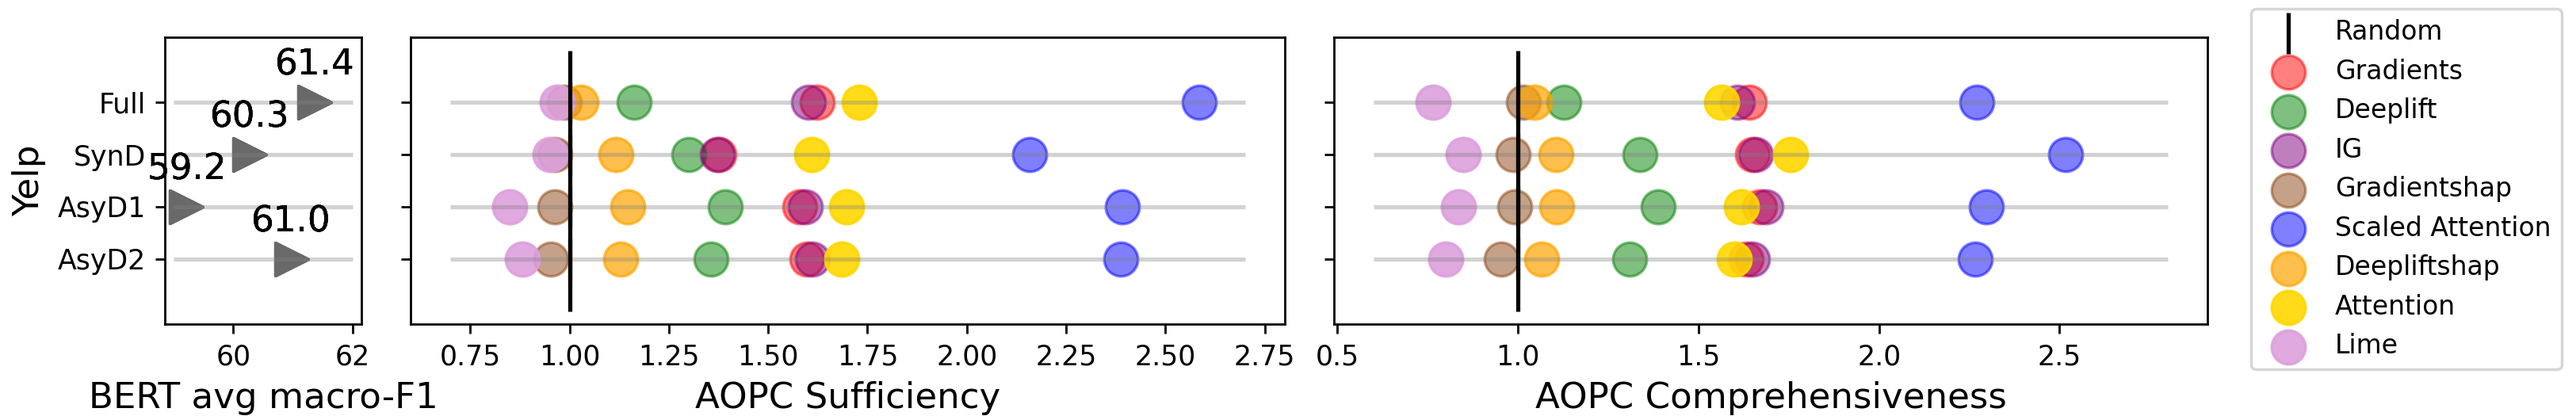
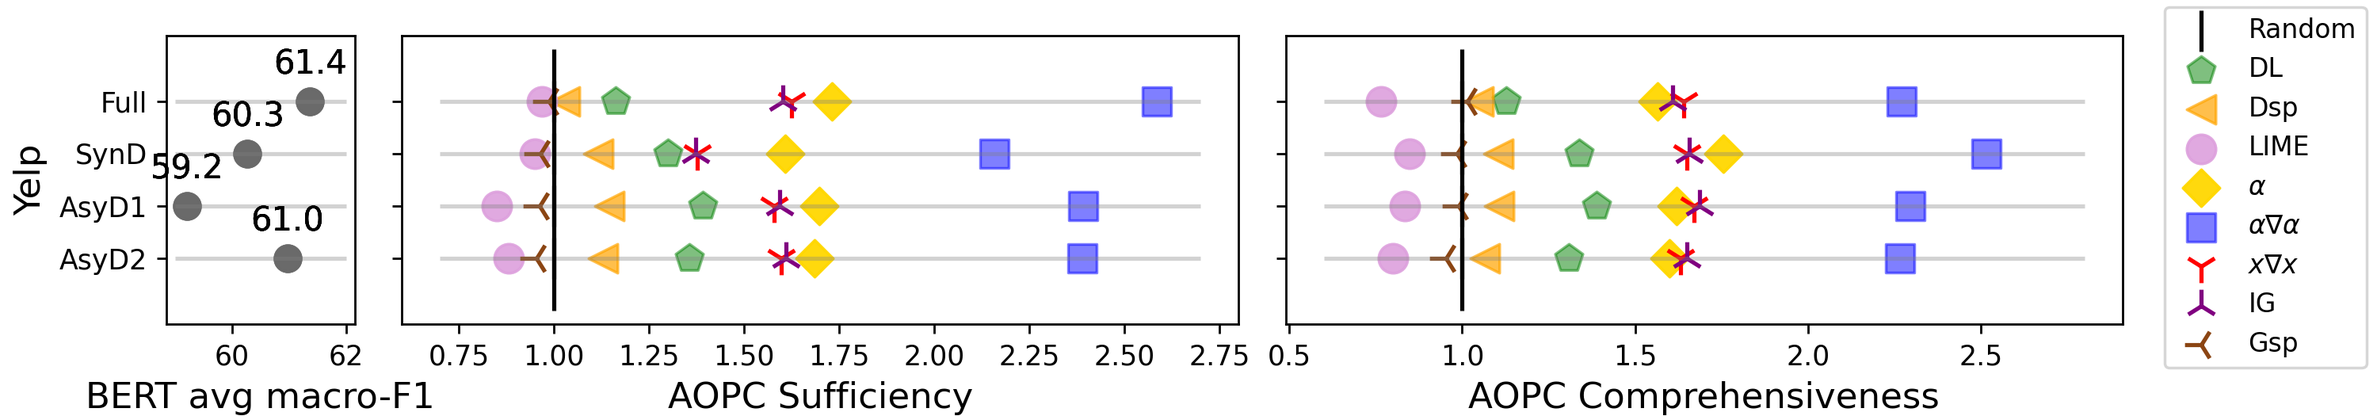
m

diff --git a/saved_everything/lollipop_ration.py b/saved_everything/lollipop_ration.py
@@ -23,7 +23,7 @@ df['ig'] = df['ig']/df['random']
 df['random'] = df['random']/df['random']
 df['mean-f1'] = df['mean-f1']*100
 
-data = 'Factcheck'
+
 
 # for fname in os.listdir('../posthoc_results/factcheck/'):
 #     print(fname)
@@ -39,7 +39,7 @@ data = 'Factcheck'
 
 
 
-
+data = 'Yelp'
 
 
 df = df[df['Task'].str.contains(str(data))]
@@ -108,7 +108,7 @@ else:
     comp_max = 0.35
 
 
-fig, ax = plt.subplots(1, 3, gridspec_kw={'width_ratios': [0.9, 4, 4]}, sharey='all', figsize=(13,2.1))
+fig, ax = plt.subplots(1, 3, gridspec_kw={'width_ratios': [0.9, 4, 4]}, sharey='all', figsize=(12,2.1))
 
 
 # Set number of ticks for x-axis
@@ -117,7 +117,7 @@ ax[0].set_yticks(range(len(my_range)))
 ax[0].set_yticklabels(my_range)
 
 ax[0].hlines(y=my_range, xmin=bert_min, xmax=bert_max, color='grey', alpha=0.35)
-ax[0].scatter(df['mean-f1'], df['Domain'], color='dimgray', alpha=1, label='F1', marker="o", s=130) # marker='|'
+ax[0].scatter(df['mean-f1'], df['Domain'], color='dimgray', alpha=0.66, label='F1', marker="o", s=89) # marker='|'
 for x,y in zip(df['mean-f1'],df['Domain']):
     label = format(x, '.1f')
     ax[0].annotate(label, # this is the text
@@ -125,7 +125,7 @@ for x,y in zip(df['mean-f1'],df['Domain']):
                  textcoords="offset points", # how to position the text
                  xytext=(0,10), # distance from text to points (x,y)
                  ha='center',
-                 fontsize= 13,
+                 fontsize= 12,
                  ) 
 ax[0].set_xlabel('BERT avg macro-F1',fontsize=xlabel_size)
 if data == 'Amazdigimu':
@@ -143,15 +143,14 @@ YMAX = 4
 ax[1].hlines(y=my_range, xmin=suff_min, xmax=suff_max, color='grey', alpha=0.35)
 ax[1].vlines(x = 1, ymin=YMIN, ymax=YMAX, color='black', alpha=1)
 ax[1].scatter(suff['random'], my_range, color='black', alpha=1, label='Random', marker='|', s=230)
-ax[1].scatter(suff['scaled attention'], my_range, color='blue', alpha=ALPHA , label='Scaled Attention', s=SIZE)
-ax[1].scatter(suff['gradients'], my_range, color='red', alpha=ALPHA , label='Gradients', s=SIZE)
-ax[1].scatter(suff['deeplift'], my_range, color='green', alpha=ALPHA , label='Deeplift', s=SIZE)
-ax[1].scatter(suff['ig'], my_range, color='purple', alpha=ALPHA , label='IG', s=SIZE)
-ax[1].scatter(suff['gradientshap'], my_range, color='saddlebrown', alpha=ALPHA , label='Gradientshap', s=SIZE)
-
-ax[1].scatter(suff['deepliftshap'], my_range, color='orange', alpha=ALPHA+0.2, label='Deepliftshap', s=SIZE)
-ax[1].scatter(suff['attention'], my_range, color='gold', alpha=ALPHA+0.4, label='Attention', s=SIZE)
-ax[1].scatter(suff['lime'], my_range, color='plum', alpha=ALPHA+0.4, label='Lime', s=SIZE)
+ax[1].scatter(suff['deeplift'], my_range, color='green', alpha=ALPHA , label='DL', s=SIZE, marker='p')
+ax[1].scatter(suff['deepliftshap'], my_range, color='orange', alpha=ALPHA+0.2, label='Dsp', s=SIZE, marker='<')
+ax[1].scatter(suff['lime'], my_range, color='plum', alpha=ALPHA+0.4, label='LIME', s=SIZE)
+ax[1].scatter(suff['attention'], my_range, color='gold', alpha= ALPHA+0.45, label=r'$\alpha$', s=SIZE-21, marker="D")
+ax[1].scatter(suff['scaled attention'], my_range, color='blue', alpha=ALPHA , label=r'$\alpha\nabla\alpha$', s=SIZE, marker="s")
+ax[1].scatter(suff['gradients'], my_range, color='red', alpha=1, label=r'$x\nabla x $', s=SIZE+33, marker="1")
+ax[1].scatter(suff['ig'], my_range, color='purple', alpha=1, label='IG', s=SIZE+33, marker="2")
+ax[1].scatter(suff['gradientshap'], my_range, color='saddlebrown', alpha=1, label='Gsp', s=SIZE+33, marker="3")
 
 ax[1].set_xlabel('AOPC Sufficiency',fontsize=xlabel_size)
 ax[1].invert_yaxis()
@@ -161,29 +160,28 @@ plt.plot()
 ########################################   COM  #################################
 ax[2].hlines(y=my_range, xmin=comp_min, xmax=comp_max, color='grey', alpha=0.35)
 ax[2].vlines(x = 1, ymin=YMIN, ymax=YMAX, color='black', alpha=1)
+
+
 ax[2].scatter(comp['random'], my_range, color='black', alpha=1, label='Random', marker='|', s=230)
-ax[2].scatter(comp['scaled attention'], my_range, color='blue', alpha=ALPHA , label=r'$\alpha\nabla\alpha$', s=SIZE, marker="s")
-ax[2].scatter(comp['attention'], my_range, color='gold', alpha= ALPHA+0.4, label=r'$\alpha$', s=SIZE-21, marker="D")
-
-ax[2].scatter(comp['gradients'], my_range, color='red', alpha=ALPHA+0.3, label=r'$x\nabla x $', s=SIZE+22, marker="1")
-ax[2].scatter(comp['ig'], my_range, color='purple', alpha=ALPHA+0.3, label='IG', s=SIZE+22, marker="2")
-ax[2].scatter(comp['gradientshap'], my_range, color='saddlebrown', alpha=ALPHA+0.35, label='Gsp', s=SIZE, marker="3")
-
-ax[2].scatter(comp['deeplift'], my_range, color='green', alpha=ALPHA , label='DL', s=SIZE)
-ax[2].scatter(comp['deepliftshap'], my_range, color='orange', alpha=ALPHA+0.2, label='Dsp', s=SIZE+22)
-
-
+ax[2].scatter(comp['deeplift'], my_range, color='green', alpha=ALPHA , label='DL', s=SIZE, marker='p')
+ax[2].scatter(comp['deepliftshap'], my_range, color='orange', alpha=ALPHA+0.2, label='Dsp', s=SIZE, marker='<')
 ax[2].scatter(comp['lime'], my_range, color='plum', alpha=ALPHA+0.4, label='LIME', s=SIZE)
+ax[2].scatter(comp['attention'], my_range, color='gold', alpha= ALPHA+0.45, label=r'$\alpha$', s=SIZE-21, marker="D")
+ax[2].scatter(comp['scaled attention'], my_range, color='blue', alpha=ALPHA , label=r'$\alpha\nabla\alpha$', s=SIZE, marker="s")
+ax[2].scatter(comp['gradients'], my_range, color='red', alpha=1, label=r'$x\nabla x $', s=SIZE+33, marker="1")
+ax[2].scatter(comp['ig'], my_range, color='purple', alpha=1, label='IG', s=SIZE+33, marker="2")
+ax[2].scatter(comp['gradientshap'], my_range, color='saddlebrown', alpha=1, label='Gsp', s=SIZE+33, marker="3")
+
 ax[2].set_xlabel('AOPC Comprehensiveness',fontsize=xlabel_size)
 ax[2].invert_yaxis()
 plt.plot()
 
 
 plt.subplots_adjust(
-    left=0.064,
+    left=0.07,
     bottom=0.221, 
-    right=0.857, 
-    top=0.91, 
+    right=0.893, 
+    top=0.914, 
     wspace=0.076, 
     hspace=0.2,
     )
@@ -191,10 +189,11 @@ plt.subplots_adjust(
 
 
 plt.legend(bbox_to_anchor=(1.05, 1.1), loc='upper left', borderaxespad=0, fontsize=legend_font_size-1.5)
+#plt.legend(bbox_to_anchor=(-0.3, -0.3), loc='upper center', borderaxespad=0, fontsize=11,fancybox=True,ncol=9)
 #fig.update_layout(yaxis5=dict(type='category',categoryorder='category ascending'))
 fig1 = plt.gcf()
 
 plt.show()
 plt.draw()
-fig1.savefig('./plot/contig'+str(data)+'.png', dpi=250)
+fig1.savefig('./plot/'+str(data)+'.png', dpi=660)
 #plt.savefig('./plot/'+str(data), format='png') # bbox_inches = 'tight', dpi=350,

diff --git a/saved_everything/all_tasks_all_fresh.py b/saved_everything/all_tasks_all_fresh.py
@@ -15,7 +15,7 @@ import numpy as np
 import pandas as pd
 
 
-task_list = ['agnews', 'xfact', 'factcheck', 'yelp', 'AmazPantry', 'AmazPantry'] # 'AmazDigiMu', 'AmazPantry', 
+task_list = ['agnews', 'xfact', 'factcheck', 'AmazPantry', 'AmazPantry', 'yelp'] # 'AmazDigiMu', 'AmazPantry', 
 
 # for i, task in enumerate(task_list):
 #         if i == 0:
@@ -30,13 +30,14 @@ task_list = ['agnews', 'xfact', 'factcheck', 'yelp', 'AmazPantry', 'AmazPantry']
 # df.to_csv('all_tasks_all_fresh_results.csv')
 
 plt.style.use('ggplot')
-fig, axs = plt.subplots(3, 2, figsize=(6, 7), sharey=False, sharex=False)
+fig, axs = plt.subplots(3, 2, figsize=(4.3, 7), sharey=False, sharex=False)
 
 marker_style = dict(color='tab:blue', linestyle=':', marker='d',
                     #markersize=15, markerfacecoloralt='tab:red',
                     )
 xlabel_size = 12
 xtick_size = 22
+ytick_size = 22
 makersize = 66
 for i, name in enumerate(task_list):
     path = './' + str(name) + '/fresh_predictive_results.csv'
@@ -56,42 +57,44 @@ for i, name in enumerate(task_list):
     df['BERT'] = bert['BERT']  
     print(df)
 
-    if i == 3 or i == 4:
+    if 'Amaz' in name:
         SUB_NAME = str(name)
     else:
         SUB_NAME = str(name).capitalize()
 
 
     if i < 2:
-        axs[0, i].scatter(df['Domain'], df['gradients'], label='Gradients', color='dimgrey') #, marker='x', s=makersize
-        axs[0, i].scatter(df['Domain'], df['deeplift'], label='Deeplift', marker='d', color='darkorange')
-        axs[0, i].scatter(df['Domain'], df['scaled attention'], label='Scaled attention', marker='<', color='steelblue')
+        axs[0, i].scatter(df['Domain'], df['gradients'], label=r'$x\nabla x $', color='dimgrey') #, marker='x', s=makersize
+        axs[0, i].scatter(df['Domain'], df['deeplift'], label='DL', marker='d', color='darkorange')
+        axs[0, i].scatter(df['Domain'], df['scaled attention'], label=r'$\alpha\nabla\alpha$', marker='<', color='steelblue')
         axs[0, i].scatter(df['Domain'], df['BERT'], label='BERT', marker='x', color='red')
         axs[0, i].set_xlabel(SUB_NAME,fontsize=xlabel_size)
-    elif i > 2:
-        axs[1, i-2].scatter(df['Domain'], df['gradients'], label='Gradients', color='dimgrey')
-        axs[1, i-2].scatter(df['Domain'], df['deeplift'], label='Deeplift', marker='d', color='darkorange')
+    elif i > 3:
+        axs[2, i-4].scatter(df['Domain'], df['gradients'], label=r'$x\nabla x $', color='dimgrey')
+        axs[2, i-4].scatter(df['Domain'], df['deeplift'], label='DL', marker='d', color='darkorange')
+        axs[2, i-4].scatter(df['Domain'], df['scaled attention'], label=r'$\alpha\nabla\alpha$', marker='<', color='steelblue')
+        axs[2, i-4].scatter(df['Domain'], df['BERT'], label='BERT', marker='x', color='red')
+        axs[2, i-4].set_xlabel(SUB_NAME,fontsize=xlabel_size)
+
+    else:
+        axs[1, i-2].scatter(df['Domain'], df['gradients'], label='$x\nabla x $', color='dimgrey')
+        axs[1, i-2].scatter(df['Domain'], df['deeplift'], label='DL', marker='d', color='darkorange')
         axs[1, i-2].scatter(df['Domain'], df['scaled attention'], label='Scaled attention', marker='<', color='steelblue')
         axs[1, i-2].scatter(df['Domain'], df['BERT'], label='BERT', marker='x', color='red')
         axs[1, i-2].set_xlabel(SUB_NAME,fontsize=xlabel_size)
-    else:
-        axs[2, i-4].scatter(df['Domain'], df['gradients'], label='Gradients', color='dimgrey')
-        axs[2, i-4].scatter(df['Domain'], df['deeplift'], label='Deeplift', marker='d', color='darkorange')
-        axs[2, i-4].scatter(df['Domain'], df['scaled attention'], label='Scaled attention', marker='<', color='steelblue')
-        axs[2, i-4].scatter(df['Domain'], df['BERT'], label='BERT', marker='x', color='red')
-        axs[2, i-4].set_xlabel(SUB_NAME,fontsize=xlabel_size)
     
 #fig.suptitle('Predictive Performance Comparison of Selective Rationalizations', fontsize=12)
 plt.subplots_adjust(
-    left=0.057,
-    bottom=0.093, 
-    right=0.78, 
-    top=0.983, 
-    wspace=0.274, 
-    hspace=0.388,
+    left=0.1,
+    bottom=0.126, 
+    right=0.963, 
+    top=0.995, 
+    wspace=0.388, 
+    hspace=0.471,
     )
-plt.legend(bbox_to_anchor=(1.02, 1), loc='upper left', borderaxespad=0, fontsize=9)
+plt.legend(bbox_to_anchor=(-0.19, -0.4), loc='upper center', borderaxespad=0, fontsize=10,
+            fancybox=True,ncol=5)
 #plt.xticks(fontsize=xtick_size)
 plt.show()
 fig1 = plt.gcf()
-fig.savefig('./fresh_compare_attributes.png', dpi=250)
+fig.savefig('./fresh_compare_attributes.png', dpi=600)

diff --git a/saved_everything/post_analysis.py b/saved_everything/post_analysis.py
@@ -21,13 +21,15 @@ import pandas as pd
 ''' generate select-then-predict results together for all tasks'''
 ''' generate predictive results together for all tasks'''
 
-xlabel_size = 11
-xtick_size = 9
+xlabel_size = 12
+xtick_size = 22
+ytick_size = 22
+makersize = 66
 
 task_list = ['agnews', 'xfact', 'factcheck', 'AmazDigiMu', 'AmazPantry', 'yelp'] #, 'AmazDigiMu', 'AmazPantry'
 
 plt.style.use('ggplot')
-fig, axs = plt.subplots(3, 2, figsize=(6, 7), sharey=False, sharex=False)
+fig, axs = plt.subplots(3, 2, figsize=(5.5, 7), sharey=False, sharex=False)
 
 marker_style = dict(color='tab:blue', linestyle=':', marker='d',
                     #markersize=15, markerfacecoloralt='tab:red',
@@ -37,7 +39,7 @@ bigtable_list = []
 for i, name in enumerate(task_list):
     print('----------------------------')
     print(name)
-    path = './' + str(name) + '/selective_results_acc.csv'
+    path = './' + str(name) + '/selective_results.csv'
     df = pd.read_csv(path)
     print(df)
     if 'acc' in path:
@@ -63,39 +65,40 @@ for i, name in enumerate(task_list):
     if i < 2:
         axs[0, i].scatter(df['Domain'], df['BERT'], label='BERT', marker='x', s=makersize)
         axs[0, i].scatter(df['Domain'], df['FRESH'], label='FRESH(α∇α)', marker='x', s=makersize)
-        #axs[0, i].scatter(df['Domain'], df['SPECTRA'], label='SPECTRA')
+        axs[0, i].scatter(df['Domain'], df['SPECTRA'], label='SPECTRA')
         axs[0, i].scatter(df['Domain'], df['KUMA'], label='HardKUMA', marker='d', color='orange', s=makersize+4)
         axs[0, i].scatter(df['Domain'], df['LSTM'], label='LSTM')
         axs[0, i].set_xlabel(SUB_NAME,fontsize=xlabel_size)
-    # elif i > 3:
+    elif i > 3:
         axs[2, i-4].scatter(df['Domain'], df['BERT'], label='BERT', marker='x', s=makersize)
         axs[2, i-4].scatter(df['Domain'], df['FRESH'], label='FRESH(α∇α)', marker='x', s=makersize)
-        # axs[2, i-4].scatter(df['Domain'], df['SPECTRA'], label='SPECTRA')
-        # axs[2, i-4].scatter(df['Domain'], df['KUMA'], label='HardKUMA', marker='d', color='orange', s=makersize+4)
+        axs[2, i-4].scatter(df['Domain'], df['SPECTRA'], label='SPECTRA')
+        axs[2, i-4].scatter(df['Domain'], df['KUMA'], label='HardKUMA', marker='d', color='orange', s=makersize+4)
         axs[2, i-4].scatter(df['Domain'], df['LSTM'], label='LSTM')
         axs[2, i-4].set_xlabel(SUB_NAME,fontsize=xlabel_size)
     else:
         axs[1, i-2].scatter(df['Domain'], df['BERT'], label='BERT', marker='x', s=makersize+4)
         axs[1, i-2].scatter(df['Domain'], df['FRESH'], label='FRESH(α∇α)', marker='x', s=makersize+4)
-        #axs[1, i-2].scatter(df['Domain'], df['SPECTRA'], label='SPECTRA')
+        axs[1, i-2].scatter(df['Domain'], df['SPECTRA'], label='SPECTRA')
         axs[1, i-2].scatter(df['Domain'], df['KUMA'], label='HardKUMA', marker='d', color='orange', s=makersize+4)
         axs[1, i-2].scatter(df['Domain'], df['LSTM'], label='LSTM')
         axs[1, i-2].set_xlabel(SUB_NAME,fontsize=xlabel_size)
     
 #fig.suptitle('Predictive Performance Comparison of Selective Rationalizations', fontsize=12)
 plt.subplots_adjust(
-    left=0.057,
-    bottom=0.093, 
-    right=0.78, 
-    top=0.983, 
-    wspace=0.274, 
-    hspace=0.388,
+    left=0.09,
+    bottom=0.126, 
+    right=0.883, 
+    top=0.995, 
+    wspace=0.345, 
+    hspace=0.471,
     )
-plt.legend(bbox_to_anchor=(1.02, 1), loc='upper left', borderaxespad=0, fontsize=9)
-plt.xticks(fontsize=xtick_size)
+plt.legend(bbox_to_anchor=(-0.14, -0.4), loc='upper center', borderaxespad=0, fontsize=8.8,
+            fancybox=True,ncol=5)
+#plt.xticks(fontsize=xtick_size)
 plt.show()
 fig1 = plt.gcf()
-fig.savefig('./selective_predictive.png', dpi=250)
+fig.savefig('./selective_predictive.png', dpi=450)
 
 # print(bigtable_list)
 all_tasks = pd.concat(bigtable_list, ignore_index=False)

diff --git a/save_everything.py b/save_everything.py
@@ -218,12 +218,14 @@ if args.plot_time_distribution:
     df = pd.concat([full, indomain_train, indomain_test, ood1, ood2]).reset_index(drop=True)
 
     #plt.style.use('ggplot')
-    sns.violinplot(y=df['Year'], x=df['Temporal Split'], showmedians=True, showextrema=True, 
+    b = sns.violinplot(y=df['Year'], x=df['Temporal Split'], showmedians=True, showextrema=True, 
         palette="rocket",scale='width') #,gridsize=10
 
     plt.title(str(args.dataset).capitalize(), fontsize=18.5)
     plt.xticks(fontsize=12)
     plt.yticks(fontsize=12)
+    b.set_xlabel('Temporal Split', fontsize=14)
+    b.set_ylabel('Year', fontsize=14)
 
     if args.dataset == 'yelp':
         yint = range(2005, 2023, 3)
@@ -231,7 +233,7 @@ if args.plot_time_distribution:
     # plt.ylabel("Percentage")
     #plt.xlabel("Full size", "InDomain Train", "InDomain Test", "OOD1 Test", "OOD2 Test")
     plt.tight_layout()
-    plt.savefig('./TimeDist/'+str(args.dataset)+'_vio.png', bbox_inches = 'tight', dpi=250, format='png')
+    plt.savefig('./TimeDist/'+str(args.dataset)+'_vio.png', bbox_inches = 'tight', dpi=450, format='png')
     plt.show()
 
 # https://stackoverflow.com/questions/59346731/no-handles-with-labels-found-to-put-in-legend

diff --git a/create_predicted_label_set.py b/create_predicted_label_set.py
@@ -18,19 +18,7 @@ def change_label_and_create_new_df(model_output_array, extracted_rationales_path
         predicted =  model_output_array[docid]['predicted'].argmax()
         doc['label'] = int(predicted)
 
-    with open(new_save_path+'train.json', 'w') as file:
-        json.dump(
-            data,
-            file,
-            indent = 4)
-
-    with open(new_save_path+'dev.json', 'w') as file:
-        json.dump(
-            data,
-            file,
-            indent = 4)
-
-    with open(new_save_path+'test.json', 'w') as file:
+    with open(new_save_path, 'w') as file:
         json.dump(
             data,
             file,
@@ -105,4 +93,4 @@ data = arguments["dataset"]
 seed = seeds[data]
 feature = arguments["feature"]
 
-generate_for_one_task_one_feature(data, feature, 5)
+generate_for_one_task_one_feature(data, feature, seed)

diff --git a/post_analysis_.py b/post_analysis_.py
@@ -128,7 +128,7 @@ plt.legend(bbox_to_anchor=(1.02, 1), loc='upper left', borderaxespad=0, fontsize
 plt.xticks(fontsize=xtick_size)
 plt.show()
 fig1 = plt.gcf()
-fig.savefig('./selective_predictive.png', dpi=250)
+fig.savefig('./selective_predictive.png', dpi=600)
 
 # print(bigtable_list)
 all_tasks = pd.concat(bigtable_list, ignore_index=False)
